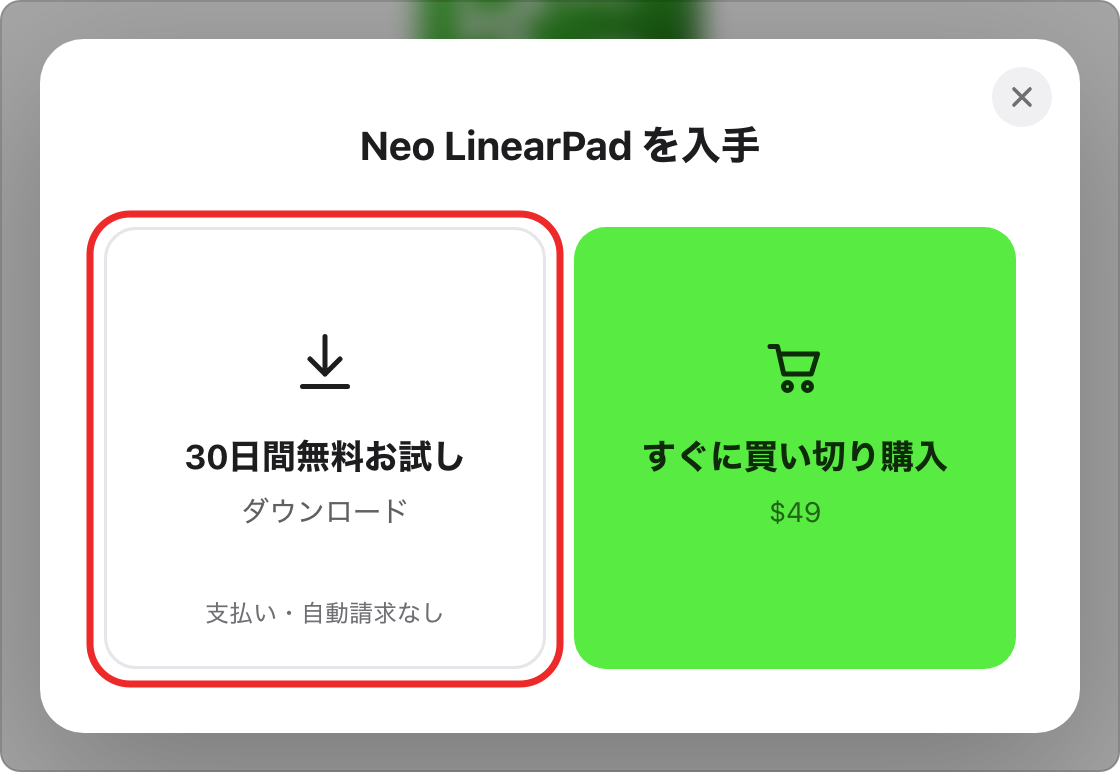
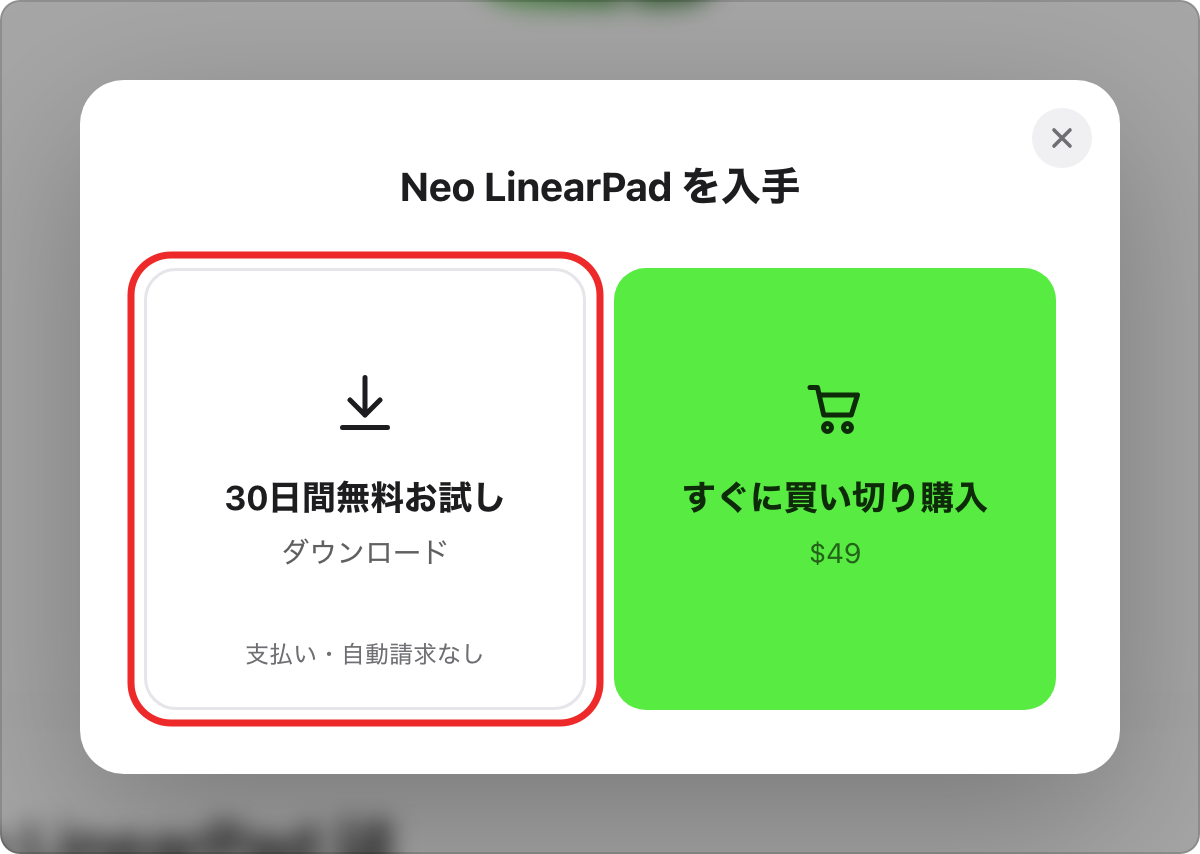
Guide images: more room around the dialog (step 1), tighter Safari crop (step 2)

diff --git a/ja/index.html b/ja/index.html
@@ -47,10 +47,10 @@
         <div class="guide-body">
           <ol>
             <li>ページ上の「ダウンロード」から「30日間無料お試し」を選び、.dmg をダウンロードします。
-              <img src="../assets/guide/install-1-choose.png?v=2" alt="「30日間無料お試し」を選ぶ" loading="lazy">
+              <img src="../assets/guide/install-1-choose.png?v=3" alt="「30日間無料お試し」を選ぶ" loading="lazy">
             </li>
             <li>ブラウザのダウンロード一覧から .dmg を開きます。
-              <img src="../assets/guide/install-2-safari.png?v=3" alt="Safari のダウンロード一覧" loading="lazy">
+              <img src="../assets/guide/install-2-safari.png?v=4" alt="Safari のダウンロード一覧" loading="lazy">
             </li>
             <li><span class="notranslate" translate="no">Neo LinearPad</span> を「アプリケーション」フォルダへドラッグします。
               <img src="../assets/guide/install-3-drag.png?v=5" alt=".dmg を開き、アプリケーションへドラッグ" loading="lazy">

diff --git a/en/index.html b/en/index.html
@@ -46,7 +46,7 @@
         <div class="guide-body">
           <ol>
             <li>Click Download on this page, choose “30-day free trial”, and download the .dmg.
-              <img src="../assets/guide/en/install-1-choose.png?v=1" alt="Choosing “30-day free trial”" loading="lazy">
+              <img src="../assets/guide/en/install-1-choose.png?v=2" alt="Choosing “30-day free trial”" loading="lazy">
             </li>
             <li>Open the .dmg from your browser’s downloads.
               <img src="../assets/guide/en/install-2-safari.png?v=3" alt="Downloads in Safari" loading="lazy">
